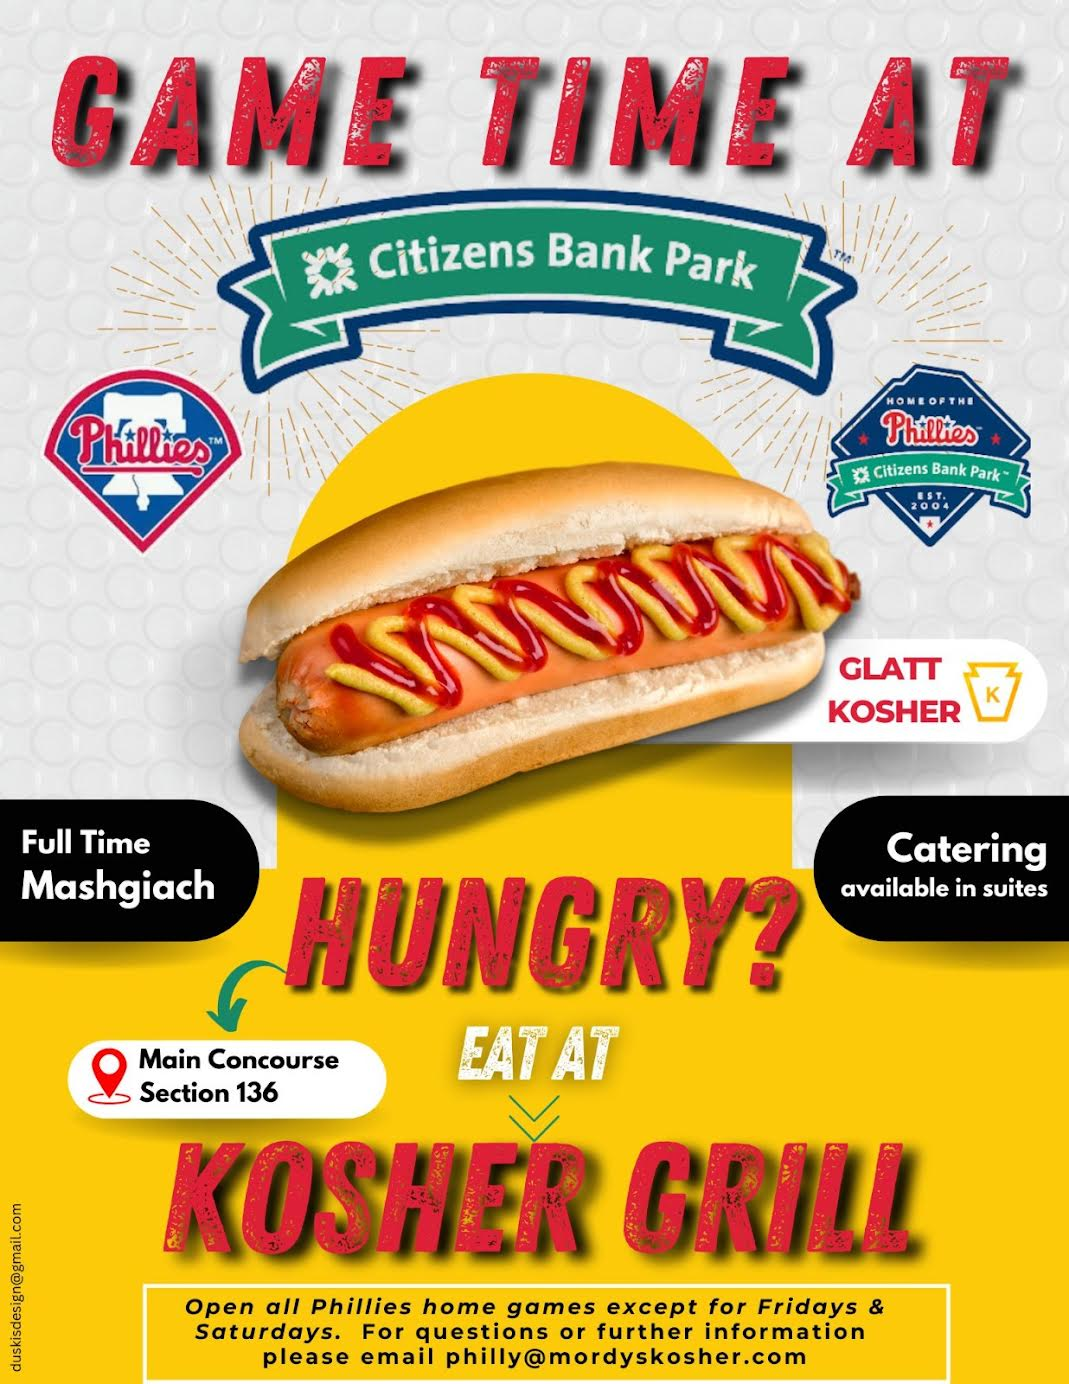
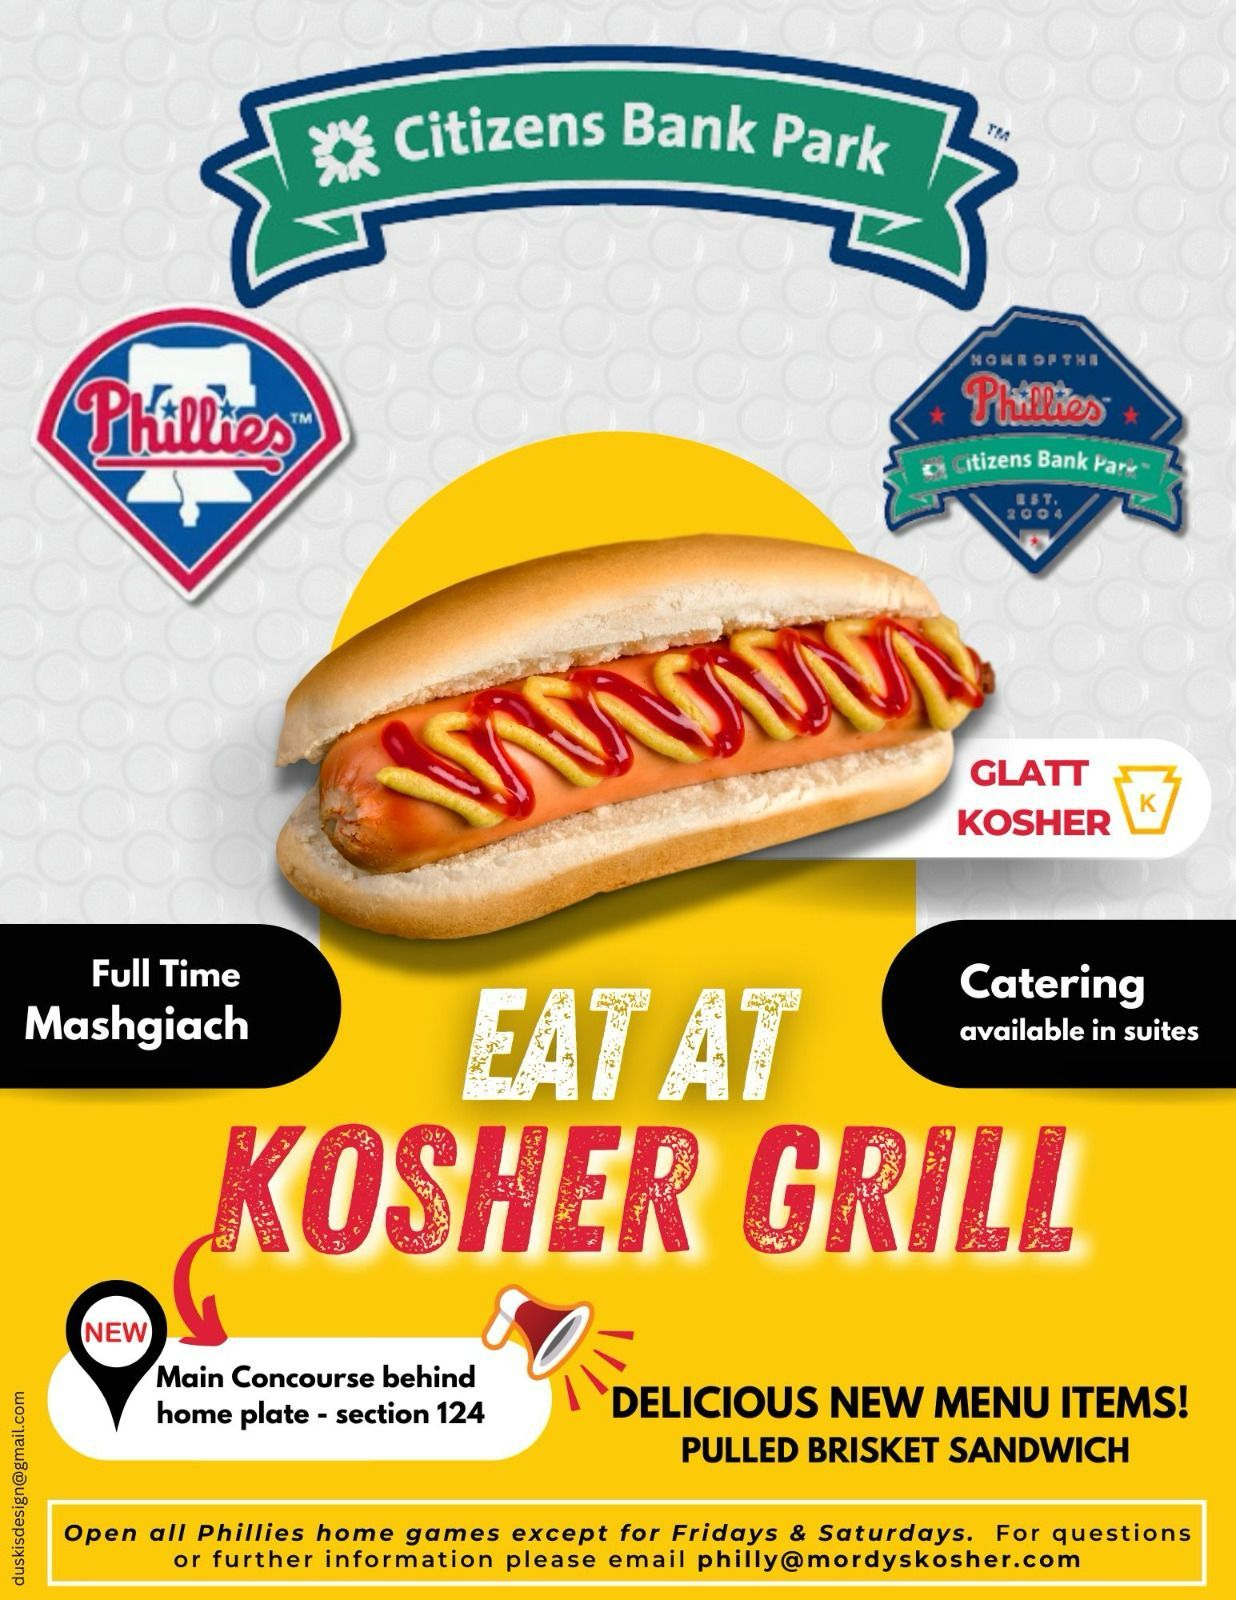
Menu updates

diff --git a/data.js b/data.js
@@ -18,37 +18,38 @@ const locations = [
     toppingImage: '/images/toppings.jpg',
     menuItems: [
       {
-        name: `Mordy's Hot Dog`,
+        name: `Kosher Dog`,
         note: '',
         price: 7.75,
         image: '/images/food/hot-dog.jpg',
       },
       {
-        name: `Hot Dog Combo`,
+        name: `Hot Dog Meal`,
         note: '(includes chips & a drink',
         price: 13.5,
         image: '/images/food/hot-dog-meal.jpg',
       },
       {
-        name: `Black Tie Hot Pastrami`,
+        name: 'Chili Dog',
         note: '',
-        price: 14.5,
+        price: 9.5,
+        image: '/images/food/chili-dog.jpg',
+      },
+      {
+        name: `Hot Pastrami Sandwich`,
+        note: '',
+        price: 14.75,
         image: '/images/food/pastrami.jpg',
       },
       {
-        name: `Maxwell Turkey Sandwich`,
+        name: `Turkey Sandwich`,
         note: '',
-        price: 13.75,
+        price: 13.50,
         image: '/images/food/turkey.jpg',
       },
+ 
       {
-        name: `Soup of the Day`,
-        note: '',
-        price: 6.75,
-        image: '/images/food/soup.jpg',
-      },
-      {
-        name: `Five AM Beef Chili`,
+        name: `Chili Bowl`,
         note: '',
         price: 6.75,
         image: '/images/food/chili.png',
@@ -56,19 +57,19 @@ const locations = [
       {
         name: `Chips`,
         note: '',
-        price: 2.5,
+        price: 3,
         image: '/images/food/chips.jpg',
       },
       {
-        name: `Pop`,
+        name: `Soda`,
         note: '',
-        price: 4,
+        price: 5,
         image: '/images/food/pop.jpg',
       },
       {
         name: `Water`,
         note: '',
-        price: 4,
+        price: 5,
         image: '/images/food/water.jpg',
       },
     ],
@@ -95,55 +96,37 @@ const locations = [
       {
         name: `Mordy's Hot Dog`,
         note: '',
-        price: 9.5,
+        price: 11,
         image: '/images/food/hot-dog.jpg',
       },
-      {
-        name: `Touchdown Chili Dog`,
-        note: '',
-        price: 11,
-        image: '/images/food/chili-dog.jpg',
-      },
+      
       {
         name: `'85 Pastrami Dog'`,
         note: '',
-        price: 12.5,
+        price: 14,
         image: '/images/food/pastrami-dog.jpg',
       },
       {
         name: `The Butkus Burger`,
         note: '',
-        price: 15.5,
+        price: 17,
         image: '/images/food/burger.jpg',
       },
       {
         name: `Club Dub Hot Pastrami`,
         note: '',
-        price: 14.5,
+        price: 16.5,
         image: '/images/food/pastrami.jpg',
       },
       {
         name: `Polish Sausage`,
         note: '',
-        price: 10.5,
+        price: 12.5,
         image: '/images/food/polish.jpg',
-      },
-      {
-        name: `Premium Beer`,
-        note: '',
-        price: 11.5,
-        image: '/images/food/beer2.jpg',
-      },
-      {
-        name: `Domestic Beer`,
-        note: '',
-        price: 10,
-        image: '/images/food/beer.jpg',
-      },
-      {
+      },      {
         name: `Water`,
         note: '',
-        price: 5.25,
+        price: 6.75,
         image: '/images/food/water.jpg',
       },
     ],
@@ -216,7 +199,7 @@ const locations = [
     city: 'Philadelphia',
     headerImage: '/images/headerBGs/citizens-bank.jpg',
     cartLocation:
-      '1 Citizens Bank Way, Philadelphia, PA 19148, just off the main concourse by section 135 / 136',
+     '1 Citizens Bank Way, Philadelphia, PA 19148, Main Councourse behind home plate - section 124',
     hours:
       'When gates open (usually 90 minutes before a Phillies home game) until you are full. Not open Friday  and Saturday.',
     phone: '215-917-0209',
@@ -276,21 +259,15 @@ const locations = [
         image: '/images/food/polish.jpg',
       },
       {
-        name: `Beer`,
-        note: '',
-        price: 9.75,
-        image: '/images/food/beer2.jpg',
-      },
-      {
         name: `Water`,
         note: '',
-        price: 4.75,
+        price: 6,
         image: '/images/food/water.jpg',
       },
       {
         name: `Pop`,
         note: '',
-        price: 6,
+        price: 7.25,
         image: '/images/food/pop.jpg',
       },
     ],

diff --git a/pages/about.js b/pages/about.js
@@ -3,6 +3,7 @@ import styles from '@/styles/About.module.css';
 import Layout from '@/components/Layout';
 import Header from '@/components/Header';
 import mordyImage from '../public/images/mordy-about.jpg';
+import robertImage from '../public/images/robert-about.jpg';
 import aaronImage from '../public/images/aaron-about.jpg';
 import teamImage from '../public/images/team-about.jpg';
 import headerBg from '../public/images/headerBGs/about-bg.jpg';
@@ -11,7 +12,9 @@ export default function AboutPage() {
     <Layout title="Our Story">
       <Header title="Our Story" bg={headerBg}></Header>
       <div className={styles.about}>
-        <div className={styles.mordyImage}>
+
+        {/* ---------------About Mordy--------------- */}
+        <div className={styles.leftImage}>
           <Image
             src={mordyImage}
             fill
@@ -43,7 +46,33 @@ export default function AboutPage() {
             flavor is simultaneously unique, authentic, and familiar.
           </p>
         </div>
-        <div className={styles.chefImage}>
+        
+          {/* ---------------About Robert--------------- */}
+          <div className={styles.rightImage}>
+          <Image
+            src={robertImage}
+            fill
+            style={{ objectFit: 'cover' }}
+            alt="Robert"
+            objectPosition="center top"
+          />
+        </div>
+        <div>
+          <h2> Robert Montoya</h2> <h3>General Manager</h3>
+          <p>
+          Robert Montoya is a proud alumnus of Robert Morris University in downtown Chicago, where he studied Business Management. He was also in the marching band and baseball team, showcasing his commitment to both teamwork and leadership. Robert is known for his outgoing personality with a strong foundation in servant leadership.
+          </p>
+          <p>
+          Today, Robert serves as the General Manager of Mordy’s Kosher, which operates concessions at the iconic United Center, Soldier Field, and McCormick Place. Whether serving up delicious meals or leading a team to ensure the best food experiences, he combines his love for sports and business to deliver exceptional results.
+          </p>
+          <p>
+          When he's not making sure fans are well-fed at Chicago’s biggest venues, Robert loves hanging out with his wife and daughter and soaking up quality family time in Colombia, where his wife’s side of the family is from. He also loves jamming to Spanish or English music, making the most of every moment.
+
+          </p>
+        </div>
+
+{/* ---------------About Aaron--------------- */}
+      <div className={styles.leftImage}>
           <Image
             src={aaronImage}
             fill
@@ -51,7 +80,6 @@ export default function AboutPage() {
             alt="Chef Aaron"
           />
         </div>
-
         <div>
           <h2>Aaron Gordon</h2>
           <h3>Executive Chef</h3>
@@ -75,7 +103,9 @@ export default function AboutPage() {
             Aaron loves tinkering with old cars.
           </p>
         </div>
-        <div className={styles.teamImage}>
+
+        {/* ---------------About Team--------------- */}
+        <div className={styles.rightImage}>
           <Image
             src={teamImage}
             fill

diff --git a/styles/About.module.css b/styles/About.module.css
@@ -23,13 +23,12 @@
   font-weight: 300;
   text-align: justify;
 }
-.chefImage,
-.mordyImage,
-.teamImage {
+.leftImage,
+.rightImage {
   position: relative;
   min-height: 20rem;
 }
-.chefImage {
+.rightImage {
   grid-column: 2;
 }
 
